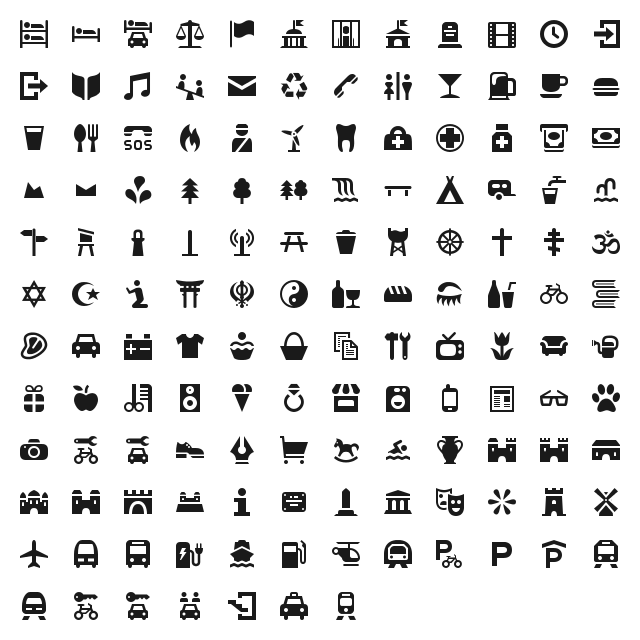
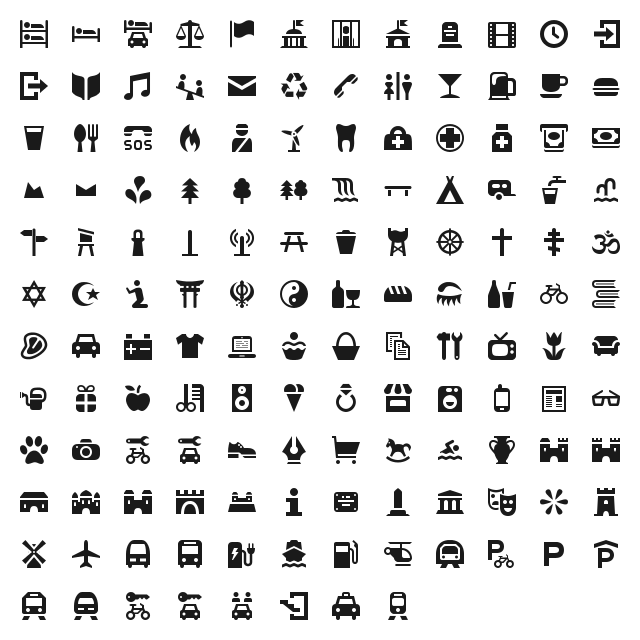
added computer shop

diff --git a/font/osmic-preview.html b/font/osmic-preview.html
@@ -195,6 +195,7 @@
 .oc-city-gate:before,
 .oc-clock:before,
 .oc-clothes:before,
+.oc-computer:before,
 .oc-confectionery:before,
 .oc-convenience:before,
 .oc-copyshop:before,
@@ -348,6 +349,7 @@
 .oc-city-gate:before { content: "\f11b"; }
 .oc-clock:before { content: "\f18c"; }
 .oc-clothes:before { content: "\f11c"; }
+.oc-computer:before { content: "\f18d"; }
 .oc-confectionery:before { content: "\f18b"; }
 .oc-convenience:before { content: "\f11d"; }
 .oc-copyshop:before { content: "\f188"; }
@@ -467,7 +469,7 @@
   <body class="characters-off">
     <div id="page" class="container">
       <header>
-        <h1>osmic contains 139 glyphs:</h1>
+        <h1>osmic contains 140 glyphs:</h1>
         <a onclick="toggleCharacters(); return false;" href="#">Toggle Preview Characters</a>
       </header>
 
@@ -924,6 +926,19 @@
         <div class="usage">
           <input class="class" type="text" readonly="readonly" onClick="this.select();" value=".oc-clothes" />
           <input class="point" type="text" readonly="readonly" onClick="this.select();" value="&amp;#xf11c;" />
+        </div>
+      </div>
+      
+      <div class="glyph">
+        <div class="preview-glyphs">
+          <span class="step size-12"><span class="letters">Pp</span><i id="oc-computer" class="oc-computer"></i></span><span class="step size-14"><span class="letters">Pp</span><i id="oc-computer" class="oc-computer"></i></span><span class="step size-16"><span class="letters">Pp</span><i id="oc-computer" class="oc-computer"></i></span><span class="step size-18"><span class="letters">Pp</span><i id="oc-computer" class="oc-computer"></i></span><span class="step size-21"><span class="letters">Pp</span><i id="oc-computer" class="oc-computer"></i></span><span class="step size-24"><span class="letters">Pp</span><i id="oc-computer" class="oc-computer"></i></span><span class="step size-36"><span class="letters">Pp</span><i id="oc-computer" class="oc-computer"></i></span><span class="step size-48"><span class="letters">Pp</span><i id="oc-computer" class="oc-computer"></i></span><span class="step size-60"><span class="letters">Pp</span><i id="oc-computer" class="oc-computer"></i></span><span class="step size-72"><span class="letters">Pp</span><i id="oc-computer" class="oc-computer"></i></span>
+        </div>
+        <div class="preview-scale">
+          <span class="step">12</span><span class="step">14</span><span class="step">16</span><span class="step">18</span><span class="step">21</span><span class="step">24</span><span class="step">36</span><span class="step">48</span><span class="step">60</span><span class="step">72</span>
+        </div>
+        <div class="usage">
+          <input class="class" type="text" readonly="readonly" onClick="this.select();" value=".oc-computer" />
+          <input class="point" type="text" readonly="readonly" onClick="this.select();" value="&amp;#xf18d;" />
         </div>
       </div>
       

diff --git a/font/osmic.css b/font/osmic.css
@@ -58,6 +58,7 @@
 .oc-city-gate:before,
 .oc-clock:before,
 .oc-clothes:before,
+.oc-computer:before,
 .oc-confectionery:before,
 .oc-convenience:before,
 .oc-copyshop:before,
@@ -211,6 +212,7 @@
 .oc-city-gate:before { content: "\f11b"; }
 .oc-clock:before { content: "\f18c"; }
 .oc-clothes:before { content: "\f11c"; }
+.oc-computer:before { content: "\f18d"; }
 .oc-confectionery:before { content: "\f18b"; }
 .oc-convenience:before { content: "\f11d"; }
 .oc-copyshop:before { content: "\f188"; }
